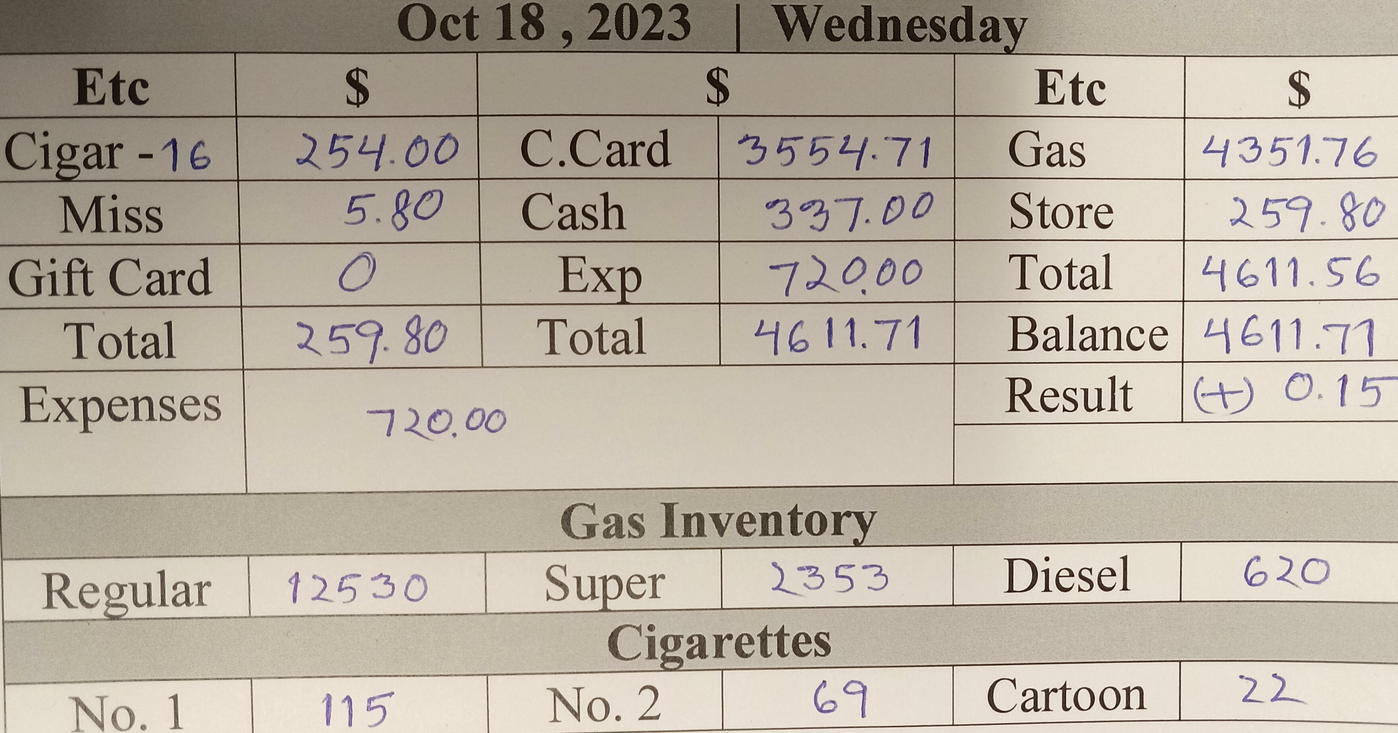
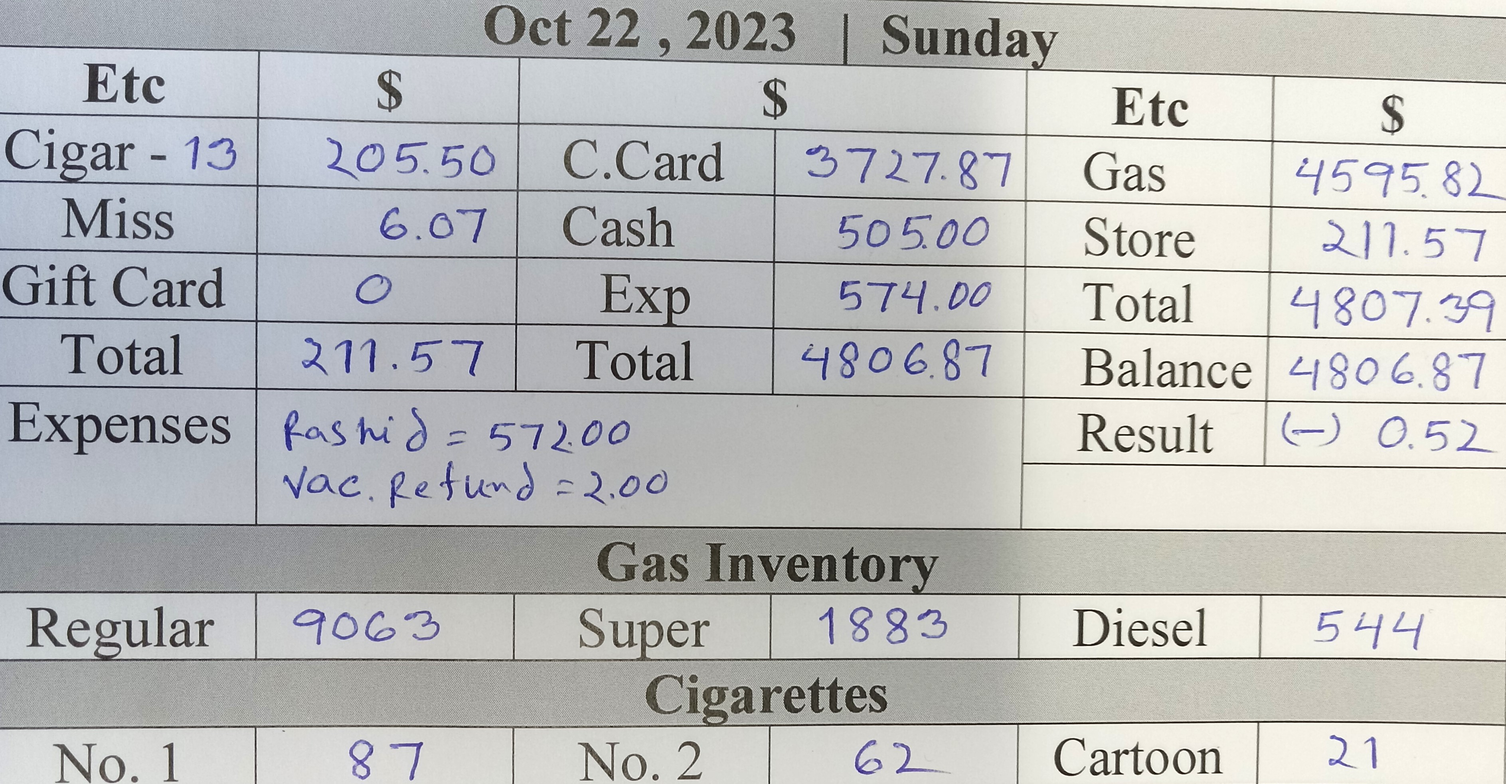
22 done

diff --git a/card.html b/card.html
@@ -67,7 +67,7 @@
         </h5>
           <p class="card-text"></p>
           <p class="card-text"><small class="text-muted"></small></p>
-        <img src="18.jpg" class="card-img-top text-danger text-center fw-bolder fs-3" 
+        <img src="22.jpg" class="card-img-top text-danger text-center fw-bolder fs-3" 
 
           alt="Call Rashid ">
         <div class="card-body">
@@ -80,14 +80,14 @@
         <h5 class="card-title text-center pt-4 m-0">
           <button class="p-1 rounded-3" type="button"><a title="Click Me"
              class="text-primary fw-bolder text-decoration-none " href="index.html">
-             Oct 17,2023
+             Oct 21,2023
 
           </a>
           </button>
         </h5>
           <p class="card-text"></p>
           <p class="card-text"><small class="text-muted"></small></p>
-        <img src="17.jpg" class="card-img-top text-center text-bg-danger" 
+        <img src="21.jpg" class="card-img-top text-center text-bg-danger" 
         alt="Not Done">
         <div class="card-body">
           <h5 class="card-title"></h5>
@@ -99,13 +99,13 @@
         <h5 class="card-title text-center pt-4 m-0 ">
           <button class="p-1 rounded-3" type="button"><a title="Click Me" 
             class="text-primary fw-bolder text-decoration-none " href="index.html">
-            Oct 16,2023          
+            Oct 20,2023          
           </a>
           </button>
           </h5>
           <p class="card-text"></p>
           <p class="card-text"><small class="text-muted"></small></p>
-        <img src="16.jpg" class="card-img-top text-center text-bg-danger" 
+        <img src="20.jpg" class="card-img-top text-center text-bg-danger" 
         alt="Not Done">
         <div class="card-body">
           <h5 class="card-title"></h5>
@@ -119,14 +119,14 @@
           <button class="p-1 rounded-3" type="button"><a title="Click Me" 
             class="text-primary fw-bolder text-decoration-none " href="index.html">
 
-             Oct 15,2023
+             Oct 19,2023
             </a>
           </button>
           </h5>
           <p class="card-text"></p>
           <p class="card-text"><small class="text-muted"></small></p>
 
-        <img title="Pic" src="15.jpg" class="card-img-top  text-bg-danger fw-bolder text-center"
+        <img title="Pic" src="19.jpg" class="card-img-top  text-bg-danger fw-bolder text-center"
         
          alt="Already Done">
         <div class="card-body">

diff --git a/index.html b/index.html
@@ -85,8 +85,8 @@
           type="button"
           class="btn btn-secondary fs fw-bold text-uppercase"
         >
-         <!-- Exp  :  <span class="text-warning ms-3">rashid : 663 </span> -->
-         Exp  :  <span class="text-warning ms-3">ali : 720</span>
+         Exp  :  <span class="text-warning ms-3">rashid : 572 </span>
+         <!-- Exp  :  <span class="text-warning ms-3">0</span> -->
          
         </button>
          
@@ -109,12 +109,12 @@
       <div class="d-flex justify-content-around border border-dark fw-bolder">
         <!--this week start-->
         <div class="p-0 text-info">T.M</div>
-        <div class="p-0 text-danger">2094</div>
+        <div class="p-0 text-danger">3560.00</div>
         <div class="p-0 text-info">Etc</div>
-        <div class="p-0 text-danger">762</div>
+        <div class="p-0 text-danger">1314.00</div>
         <div class="p-0 text-info">Rest</div>
-        <div class="p-0 text-danger">1332</div>
-          <!--15-->
+        <div class="p-0 text-danger">2246=1123.00</div>
+          <!--15,15-->
           <!--this week end-->
 
           <!-- last week start-->
